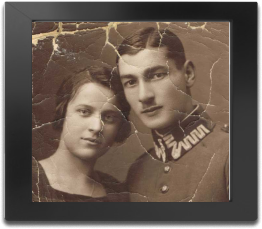
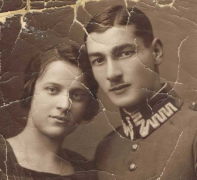
dynamic frames

diff --git a/src/Pages/FramedPrints/Components/Accordion.jsx b/src/Pages/FramedPrints/Components/Accordion.jsx
@@ -1,5 +1,4 @@
 import React, { useEffect, useState } from "react";
-import FrameWidget from "./FrameWidget";
 import AccordionCollapse from "../../../Assets/icons/accordion-collapse.svg";
 import Frame from "../../../Assets/icons/frame.svg";
 
@@ -23,11 +22,12 @@ const Accordion = ({ framedPrints, setFramedPrints }) => {
           [productKey]: updatedProduct,
         };
       }
-
+      console.log(updatedFramedPrints)
       return updatedFramedPrints;
     });
   };
 
+  console.log(framedPrints)
   useEffect(() => {
     setIsOpenAccordion([...framed]);
   }, [framed]);
@@ -54,12 +54,76 @@ const Accordion = ({ framedPrints, setFramedPrints }) => {
     return sizeFrames.some((sizeFrame) => product[keys[0]][sizeFrame] !== 0);
   });
 
+  const getFrameDimentions = (index) => {
+    let dimention = "";
+    switch (framedPrints[index]["product" + index].size) {
+      case "8x10":
+        dimention =
+          "w-[72px] md:w-[144px] h-[86px]  md:h-[172px] border-[10px] md:border-[20px]";
+        break;
+      case "11x14":
+        dimention =
+          "w-[88px] md:w-[176px] h-[115px]  md:h-[230px] border-[12px] md:border-[24px]";
+        break;
+      case "12x12":
+        dimention =
+          "w-[88px] md:w-[176px] h-[106px]  md:h-[212px] border-[12px] md:border-[24px]";
+        break;
+      case "16x16":
+        dimention =
+          "w-[128px] md:w-[256px] h-[128px]  md:h-[256px] border-[14px] md:border-[28px]";
+        break;
+      case "16x20":
+        dimention =
+          "w-[128px] md:w-[256px] h-[160px]  md:h-[320px] border-[14px] md:border-[28px]";
+        break;
+      case "20x30":
+        dimention =
+          "w-[160px] md:w-[320px] h-[200px]  md:h-[400px] border-[16px] md:border-[32px]";
+        break;
+      case "24x36":
+        dimention =
+          "w-[192  px] md:w-[384px] h-[240px] md:h-[480px] border-[18px] md:border-[36px]";
+        break;
+
+      default:
+        break;
+    }
+    return dimention;
+  };
+
+  const getFrameColor = (index) => {
+    let color = "";
+    switch (framedPrints[index]["product" + index].color) {
+      case "Black":
+        color = "border-[#000000]";
+        break;
+      case "White":
+        color = "border-[#FFFFFF]";
+        break;
+      case "Brown":
+        color = "border-[#964B00]";
+        break;
+      case "Natural":
+        color = "border-[#B48F8F]";
+        break;
+      case "Matte Gold":
+        color = "border-[#D4B44A]";
+        break;
+
+      default:
+        break;
+    }
+    return color;
+  };
+  console.log(framedPrints[0]["product" + 0].size)
   return (
     <div>
       {framedPrints.length > 0 &&
         products.map((item, index) => {
           const key = Object.keys(item)[0];
           const object = item[key];
+          console.log(framedPrints[index]["product" + index].color);
           return (
             <div className="mt-4 rounded-xl lg:rounded-2xl shadow-mobile-card bg-white py-1.5 lg:py-2 px-2 lg:px-3 overflow-hidden">
               <div className="flex justify-between items-center">
@@ -129,10 +193,19 @@ const Accordion = ({ framedPrints, setFramedPrints }) => {
                 }`}
               >
                 <div className="w-full flex justify-center pb-8 lg:pb-16 border-b-[3px] border-[#FF9728]">
-                  {/* <div className="w-44 md:w-auto mt-8 relative"> */}
-                    {/* <FrameWidget /> */}
-                    <img className="w-44 md:w-auto mt-8" src={object.framedImage} alt=""/>
-                  {/* </div> */}
+                  <div
+                    className={`rounded-[5px] shadow-mobile-card ${getFrameDimentions(
+                      index
+                    )} ${getFrameColor(index)} mt-8`}
+                  >
+                    <div className="w-full h-full">
+                      <img
+                        className="object-fill w-full h-full"
+                        src={object.framedImage}
+                        alt=""
+                      />
+                    </div>
+                  </div>
                 </div>
                 <div className="mt-5 lg:mt-10">
                   <div className="flex justify-between items-baseline mb-6 lg:mb-10">
